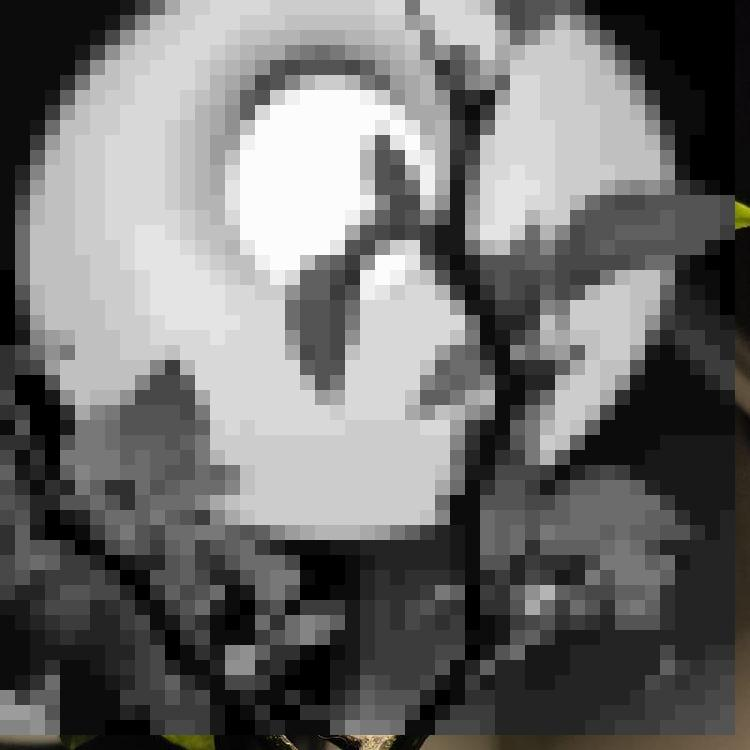
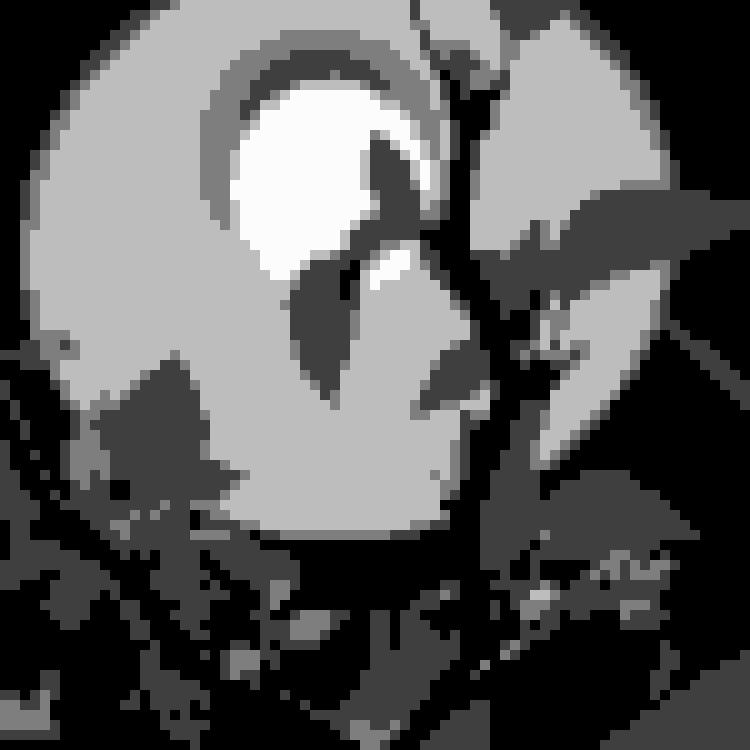
Заменил по возможности циклы матричными преобразованиями, дополнительно перименовал некоторые переменные

diff --git a/filter.py b/filter.py
@@ -4,40 +4,26 @@ import numpy as np
 
 def apply_filter(mosaic_size, count_gradations):
     img = Image.open("img2.jpg")
-    arr = np.array(img)
-    len_width = len(arr)
-    len_height = len(arr[1])
+    data_img = np.array(img)
+    size_img = data_img.shape
 
-    px_width = 0
-    while px_width < len_width - mosaic_size - 1:
-        px_height = 0
-        while px_height < len_height - mosaic_size - 1:
-            average_brightness = find_average_brightness_cell(arr, px_width, px_height, mosaic_size)
-            paint_cell(arr, px_width, px_height, mosaic_size, average_brightness, count_gradations)
-            px_height = px_height + mosaic_size
-        px_width = px_width + mosaic_size
-    res = Image.fromarray(arr)
+    for x in range(0, size_img[0], mosaic_size):
+        for y in range(0, size_img[1], mosaic_size):
+            paint_cell(data_img, x, y, mosaic_size, count_gradations)
+
+    res = Image.fromarray(data_img)
     res.save('res.jpg')
 
 
 def find_average_brightness_cell(arr, px_width, px_height, mosaic_size):
-    sum_brightness = 0
-    for i in range(px_width, px_width + mosaic_size):
-        for j in range(px_height, px_height + mosaic_size):
-            r = arr[i][j][0]
-            g = arr[i][j][1]
-            b = arr[i][j][2]
-            median = r // 3 + g // 3 + b // 3
-            sum_brightness += median
-    average_brightness = sum_brightness // mosaic_size ** 2
-    return average_brightness
+    return np.average(arr[px_width:px_width + mosaic_size, px_height: px_height + mosaic_size])
 
 
-def paint_cell(arr, px_width, px_height, mosaic_size, average_brightness, count_gradations):
-    for i in range(px_width, px_width + mosaic_size):
-        for j in range(px_height, px_height + mosaic_size):
-            gradations = 255 // count_gradations
-            arr[i][j][0] = average_brightness // gradations * gradations
-            arr[i][j][1] = average_brightness // gradations * gradations
-            arr[i][j][2] = average_brightness // gradations * gradations
+def paint_cell(arr, px_width, px_height, mosaic_size, count_gradations):
+    average_brightness = find_average_brightness_cell(arr, px_width, px_height, mosaic_size)
+    gradations = 255 // count_gradations
+    px_brightness = average_brightness // gradations * gradations
+    arr[px_width:px_width + mosaic_size, px_height:px_height + mosaic_size, ][:] = px_brightness
 
+
+apply_filter(10, 4)
